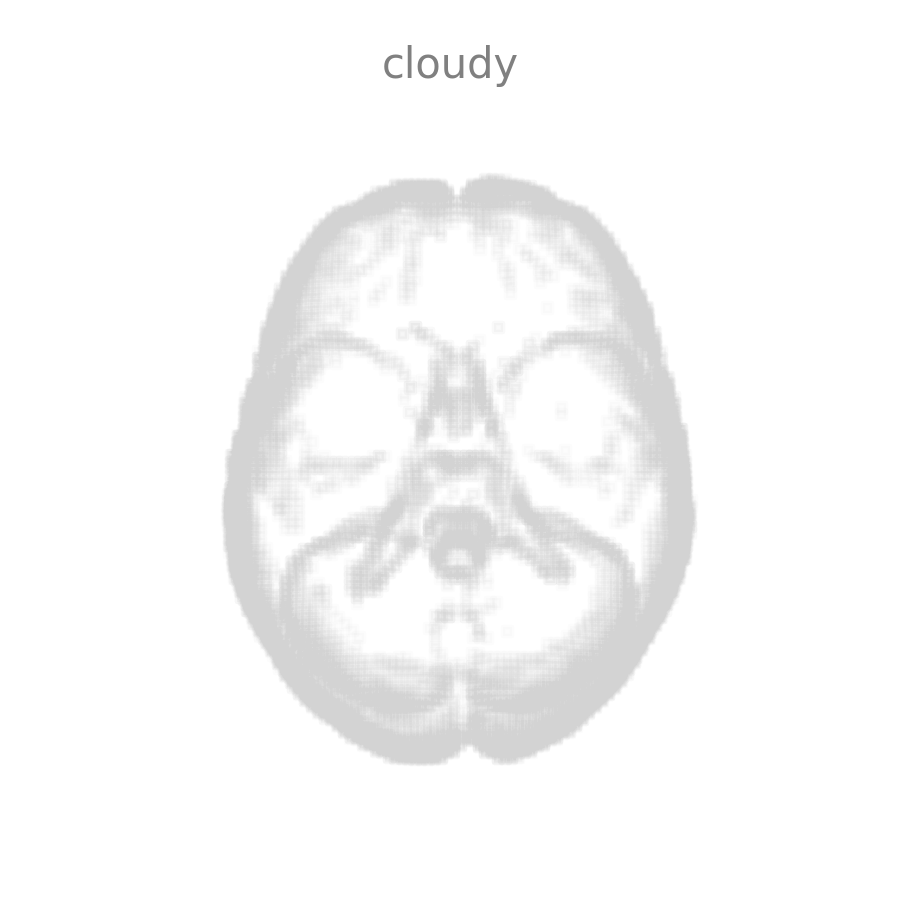
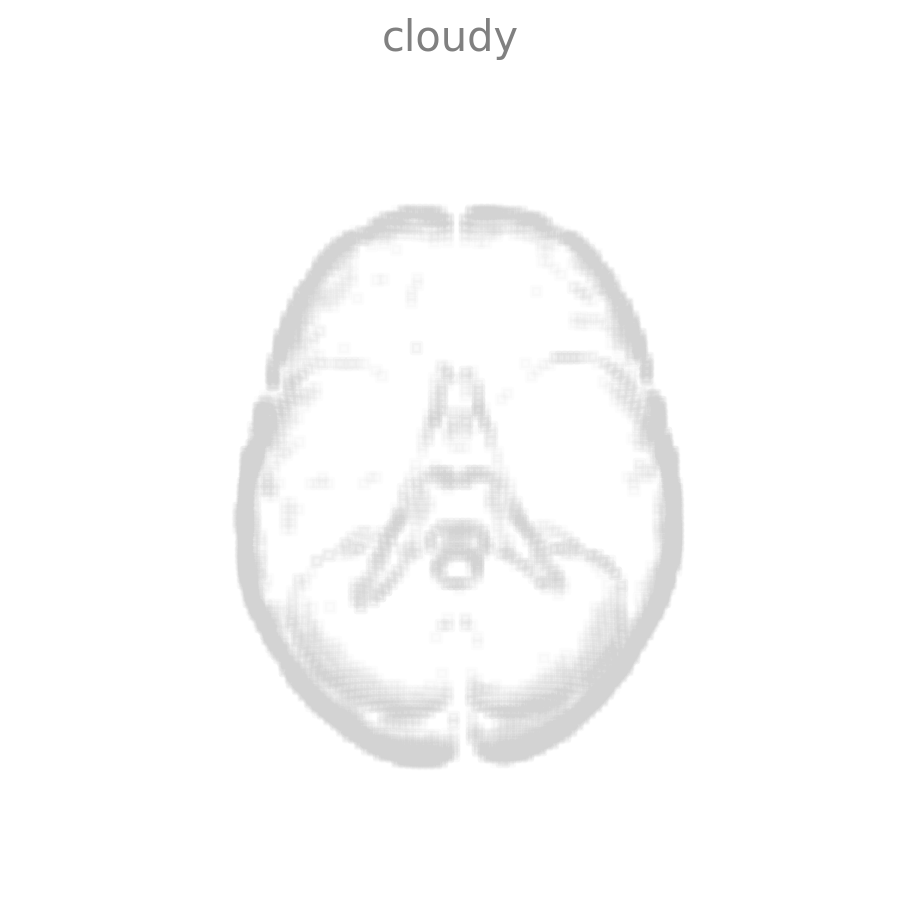
template styles figures and code

diff --git a/template_styles.py b/template_styles.py
@@ -6,39 +6,43 @@ import matplotlib.pyplot as plt
 
 # Plot glass style 
 netplotbrain.plot(template='MNI152NLin6Asym',
-                  templatestyle='glass',
+                  template_style='glass',
                   view='S',
                   arrowaxis=None,
-                  subtitles='glass')
+                  title='glass', 
+                  subtitles=None)
 
 plt.savefig('./figures/glass_template.png', dpi=300)
 
 # Plot surface style 
 netplotbrain.plot(template='MNI152NLin6Asym',
-                  templatestyle='surface',
+                  template_style='surface',
                   view='S',
                   arrowaxis=None,
-                  subtitles='surface')
+                  title='surface',
+                  subtitles=None)
 
 plt.savefig('./figures/surface_template.png', dpi=300)
 
 # Plot filled style 
 netplotbrain.plot(template='MNI152NLin6Asym',
-                  templatestyle='filled',
+                  template_style='filled',
                   view='S',
                   arrowaxis=None,
-                  subtitles='filled')
+                  title='filled',
+                  subtitles=None)
 
 plt.savefig('./figures/filled_template.png', dpi=300)
 
 # Plot cloudy style 
 netplotbrain.plot(template='MNI152NLin6Asym',
-                  templatestyle='cloudy',
-                  templatevoxelsize=2,
-                  templatealpha=0.065,
+                  template_style='cloudy',
+                  template_voxelsize=2,
+                  template_alpha=0.065,
                   view='S',
-                  templateedgethreshold=0.6,
+                  template_edgethreshold=0.6,
                   arrowaxis=None,
-                  subtitles='cloudy')
+                  title='cloudy',
+                  subtitles=None)
 
 plt.savefig('./figures/cloudy_template.png', dpi=300)
